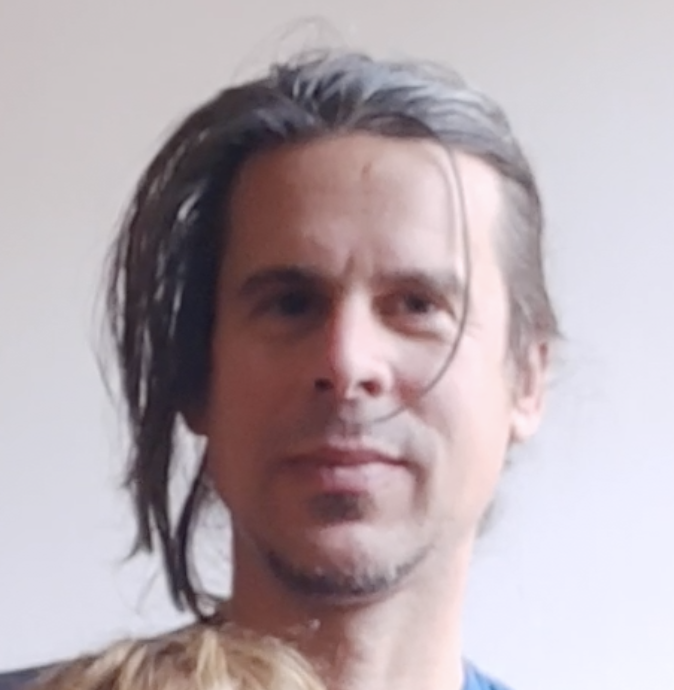
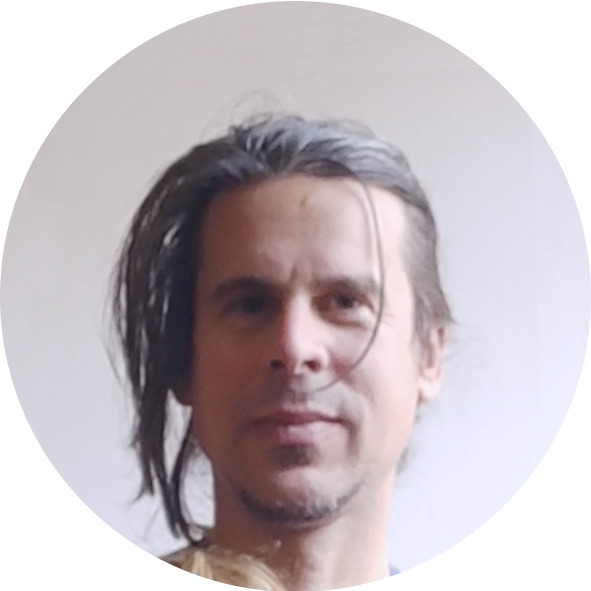
perfiul

diff --git a/index.html b/index.html
@@ -30,8 +30,11 @@
             </header>
 
             <main>
-              <div id="text-center">
-                <img id="text-center" src="https://pepo.cat/img/pepoperfil.png" />
+                <div id="gira" style="background:transparent">
+                  <img id="terapies" src="https://pepo.cat/img/pepoperfil.png" style="width:70%" />
+                </div>
+                <br>
+                  <div id="text-center">
                 <p>Em dic Pepo, sóc diplomat en Medicina Xinesa i shiatsu Contact.
                   Acompanyo les persones a reconnectar amb el seu moviment natural,
                   utilitzant diverses tècniques basades en la intuïció, el joc i el
